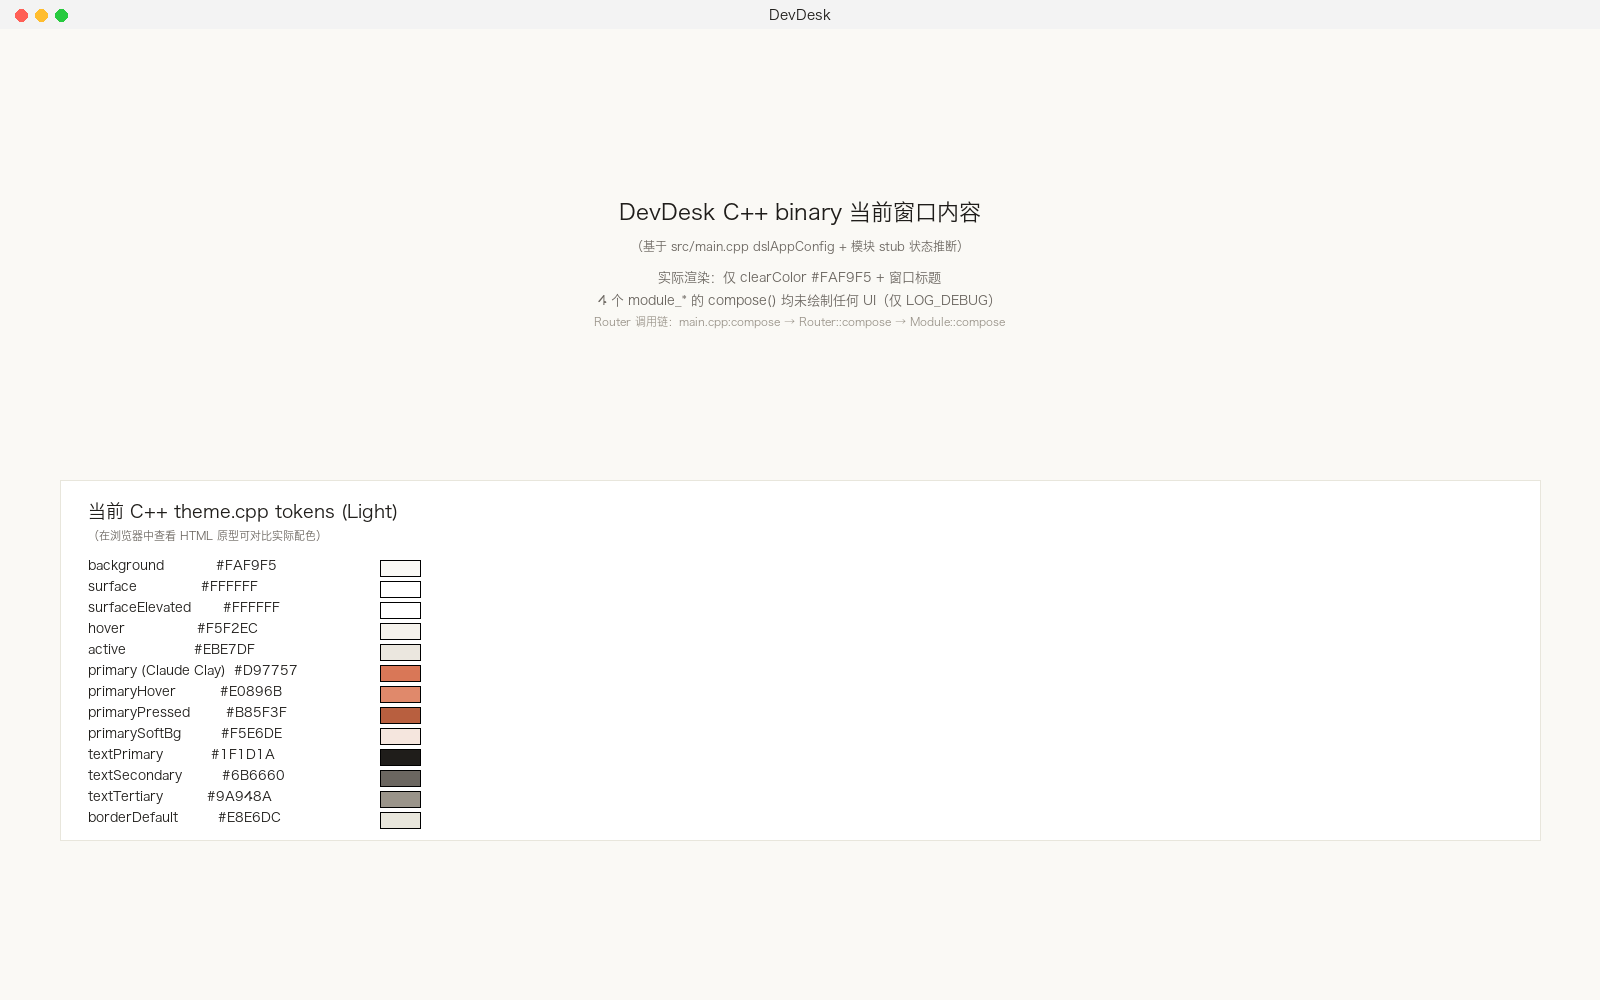
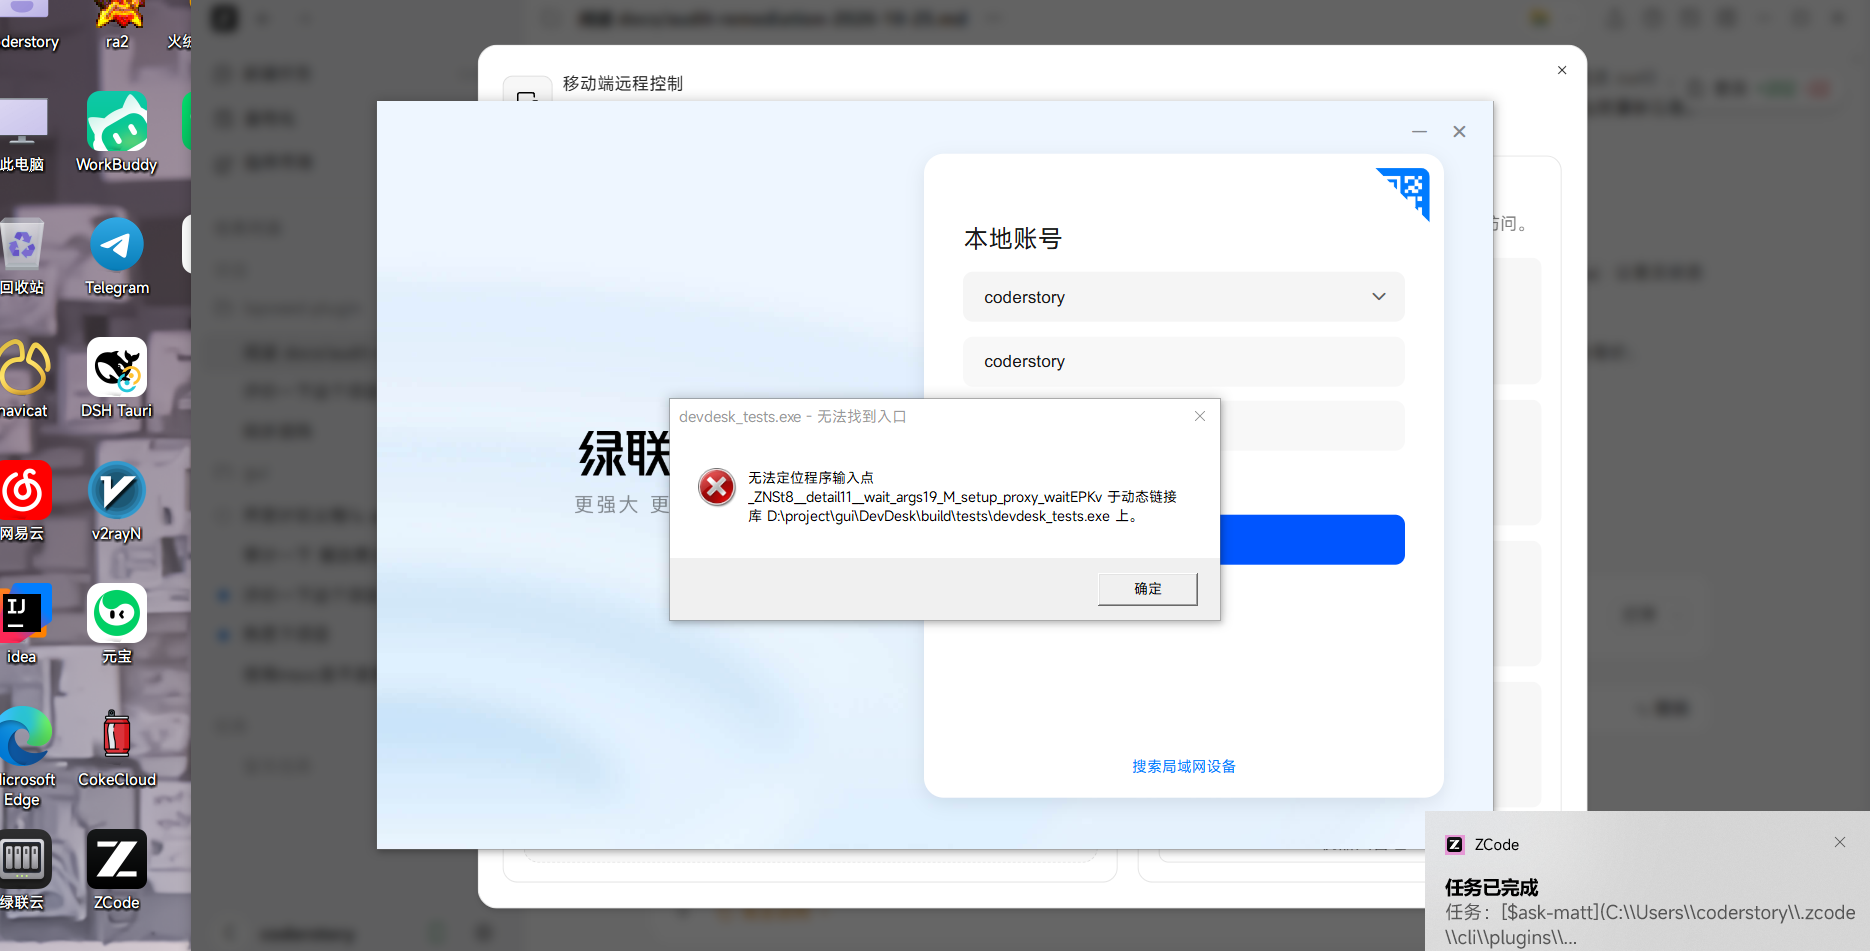
fix(tests): 上会话遗留修复落地——doctest.h 补 repoRoot 双锚点定位（修 ctest cwd 错位假红 6 例）、markdown/agent 几何期望对齐、删死常量 kGoalInputH、cpp-home 截图重拍

diff --git a/tests/doctest.h b/tests/doctest.h
@@ -164,6 +164,34 @@ inline std::filesystem::path tempPath(const std::string& name) {
             std::to_string(n) + ext);
 }
 
+// 仓库根定位（源码契约测试 / 需要仓库自身的用例通用）。
+// 为什么不能只靠 __FILE__ 上溯：generator 可能以**相对路径**传源文件（ninja 下常见
+// `..\tests\test_modules\x.cpp`），weakly_canonical 按**运行时 cwd** 解析——
+// 从 build/ 直跑能对上，ctest 的 cwd 是 build/tests 就错位成不存在的路径。
+// 双锚点各向上找本仓库根独有标记 tests/doctest.h：
+//   ① doctest.h 自身路径（含相对形态；cwd 错位时标记检查不中，自动落到 ②）
+//   ② 运行时 cwd（无论 cwd=build/ 还是 build/tests，build 目录都在根的正下方）
+// CI 与本地、ctest 与直跑因此拿到同一根。找不到返回空 path——调用方必须
+// DOCTEST_REQUIRE(!root.empty()) 兜底报错，不许静默跳过断言。
+inline std::filesystem::path repoRoot() {
+    namespace fs = std::filesystem;
+    static const fs::path root = [] {
+        std::error_code ec;
+        const fs::path fileAnchor =
+            fs::weakly_canonical(fs::path(__FILE__), ec).parent_path();
+        const fs::path anchors[2] = {fileAnchor, fs::current_path(ec)};
+        for (const fs::path& start : anchors) {
+            for (fs::path dir = start;
+                 !dir.empty() && dir != dir.parent_path();
+                 dir = dir.parent_path()) {
+                if (fs::exists(dir / "tests" / "doctest.h", ec)) return dir;
+            }
+        }
+        return fs::path{};
+    }();
+    return root;
+}
+
 } // namespace test_temp
 
 // 直接注册测试：REGISTER_TEST(unique_name, "Description", { body })

diff --git a/tests/test_modules/test_splash_contract.cpp b/tests/test_modules/test_splash_contract.cpp
@@ -25,16 +25,11 @@
 namespace {
 
 // 读源文件全文为字符串；失败返回空串（调用方用 DOCTEST_CHECK(!src.empty()) 接住）。
-//
-// 路径推导：__FILE__ = <source_root>/tests/test_modules/test_splash_contract.cpp
-// （CMake 以 ${CMAKE_SOURCE_DIR}/... 绝对路径登记源文件，故 __FILE__ 是绝对路径）。
-// source_root = parent_path() ×3（test_modules → tests → root）。
-// weakly_canonical 规整 .. / . / 平台分隔符差异，不要求目标存在。
+// 根定位走 test_temp::repoRoot()（doctest.h）：__FILE__ 相对形态 + ctest 的
+// build/tests cwd 下，裸 __FILE__ 上溯三级会指向不存在的路径 → 全组空串假红。
 std::string readSourceFile(const std::string& relPath) {
     namespace fs = std::filesystem;
-    const fs::path here = fs::weakly_canonical(fs::path(__FILE__));
-    const fs::path sourceRoot =
-        here.parent_path().parent_path().parent_path();
+    const fs::path sourceRoot = test_temp::repoRoot();
     const fs::path target = sourceRoot / relPath;
     std::ifstream in(target, std::ios::binary);
     if (!in.is_open()) return std::string{};

diff --git a/tests/test_core/test_window_geometry.cpp b/tests/test_core/test_window_geometry.cpp
@@ -19,13 +19,11 @@
 namespace {
 
 // 源码契约读源文件（先例：test_splash_contract.cpp）。
-// 路径推导：__FILE__ = <source_root>/tests/test_core/test_window_geometry.cpp
-// （CMake 以绝对路径登记源文件），source_root = parent_path() ×3（test_core → tests → root）。
+// 根定位走 test_temp::repoRoot()（doctest.h）：__FILE__ 相对形态 + ctest 的
+// build/tests cwd 下，裸 __FILE__ 上溯三级会指向不存在的路径 → 空串假红。
 std::string readSourceFile(const std::string& relPath) {
     namespace fs = std::filesystem;
-    const fs::path here = fs::weakly_canonical(fs::path(__FILE__));
-    const fs::path sourceRoot =
-        here.parent_path().parent_path().parent_path();
+    const fs::path sourceRoot = test_temp::repoRoot();
     const fs::path target = sourceRoot / relPath;
     std::ifstream in(target, std::ios::binary);
     if (!in.is_open()) return std::string{};

diff --git a/tests/test_modules/test_markdown.cpp b/tests/test_modules/test_markdown.cpp
@@ -1237,7 +1237,9 @@ REGISTER_TEST(md_module_wechat_surfaces,
 
     const auto& wc = core::theme::current().colors;
     const eui::Color cardBg = ui_kit::cardSurface(core::theme::current());
-    DOCTEST_CHECK(colorEq(ui.find("md.tree.bg")->color, wc.background));  // B2 方案 A 共面融合：树区与编辑区同底
+    // 批M（2026-10-25 拍板）：树区改浅灰面板（hover 令牌），编辑/预览白纸卡——
+    // 灰底托纸卡分层，取代旧「树/编辑同底」共面方案
+    DOCTEST_CHECK(colorEq(ui.find("md.tree.bg")->color, wc.hover));
     DOCTEST_CHECK(colorEq(ui.find("md.search.hit")->color, wc.surface));
     DOCTEST_CHECK(colorEq(ui.find("md.editor.bg")->color, wc.background));
     const auto* edHit = ui.find("md.editor.input.hit");

diff --git a/src/module_agent/agent_module.cpp b/src/module_agent/agent_module.cpp
@@ -181,7 +181,6 @@ constexpr float kPageHintH = 16.0f;
 // 任务弹窗几何（UAT5 重设计：弹性宽 = max(720, 窗口/2)，demo 智能体面板的紧凑行高）
 // kDialogGap/kDialogLabelW/kDialogRowH 已收进 agent_ui_shared.h（与详情弹窗共用真源）
 constexpr float kTaskDialogH = 520.0f;        // UAT6 竖向导航案：标题栏/底栏各 44 带 + 内容区 432
-constexpr float kGoalInputH = 64.0f;          // demo 指令 textarea rows≈3
 constexpr float kGroupTitleH = 20.0f;        // 分组标题高（14px 加粗 + 行高 20）
 
 // AI 草稿子弹窗几何（Standard 460 宽；y 均为本弹窗面板内坐标，与任务弹窗互不影响）。

diff --git a/tests/test_modules/test_agent_tools.cpp b/tests/test_modules/test_agent_tools.cpp
@@ -1024,7 +1024,10 @@ REGISTER_TEST(builtin_git_smoke,
                     "git.branch", "git.checkout", "git.pull", "git.commit"};
 
     platform::json::JsonObject args;
-    args.set("repo", platform::json::makeString("D:/project/gui/DevDesk"));
+    // 仓库路径用 repoRoot() 自发现，不写死绝对路径——CI checkout 在
+    // D:/a/DevDesk/...，写死本机路径会让 git.status 对不存在路径返回错误
+    args.set("repo", platform::json::makeString(
+                         test_temp::repoRoot().generic_string()));
 
     auto tool = core::ToolRegistry::instance().find("git.status");
     DOCTEST_REQUIRE(tool.isOk());
